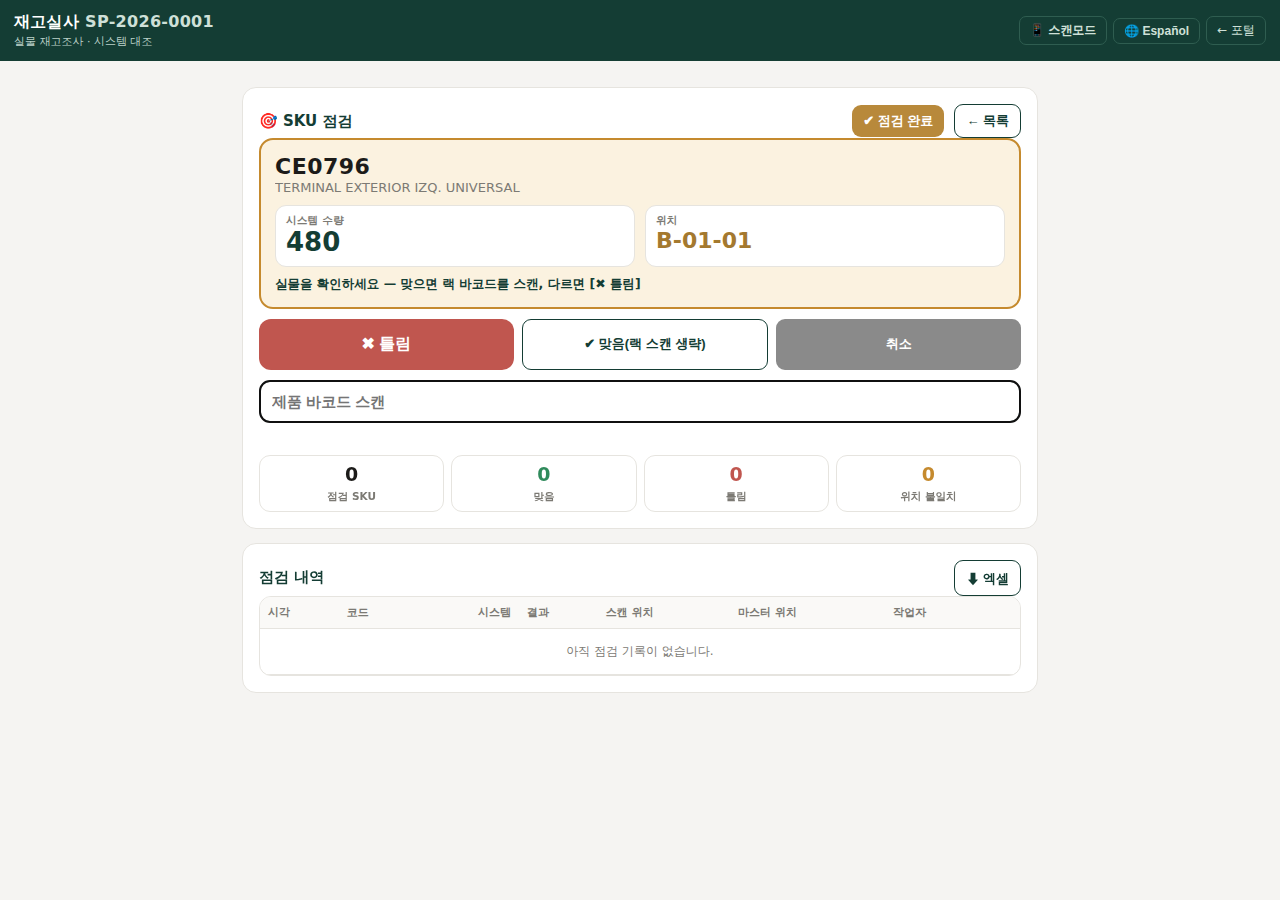
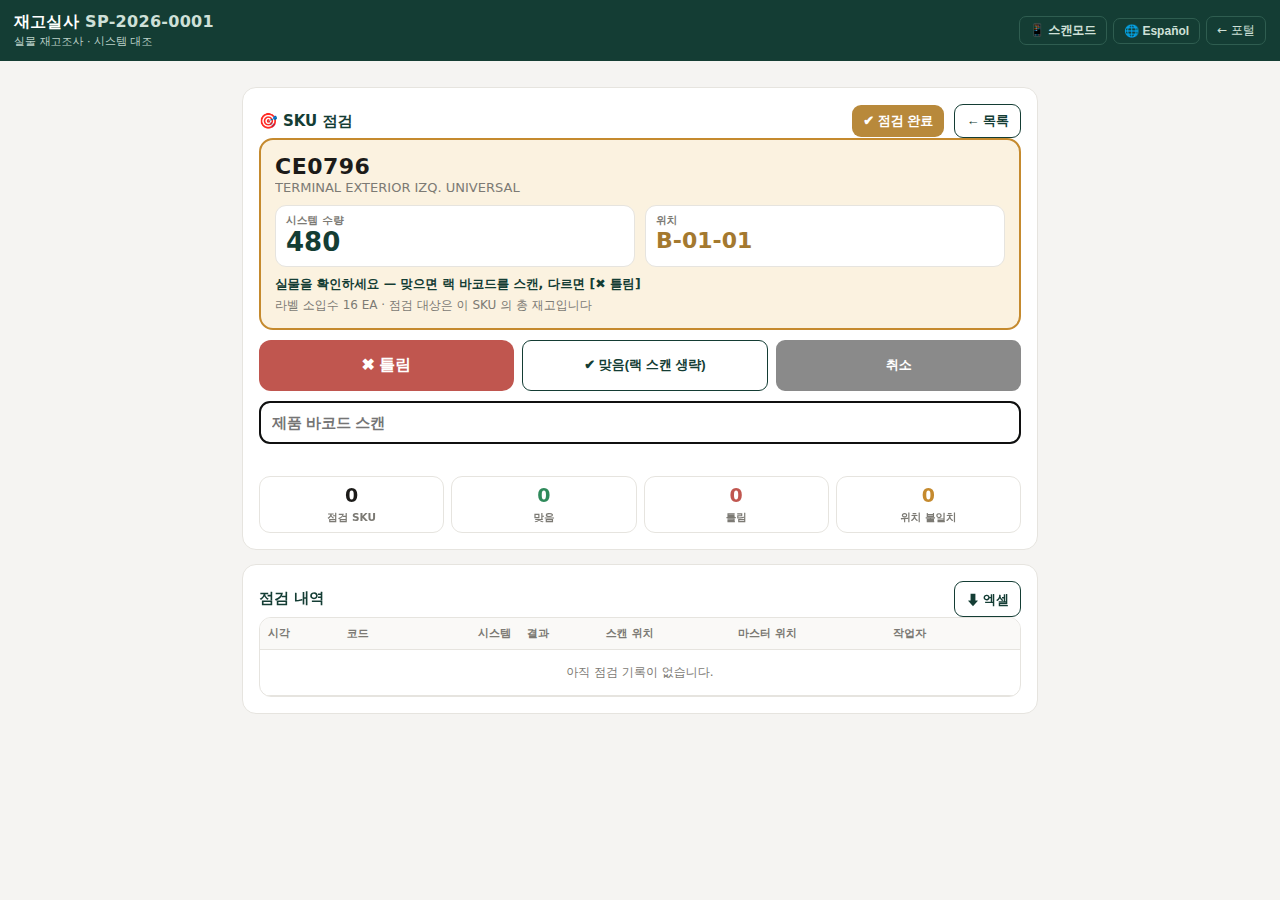
재고 검수

diff --git a/refatrix-api/src/routes/stockCountRoutes.js b/refatrix-api/src/routes/stockCountRoutes.js
@@ -1,4 +1,4 @@
-// stockCountRoutes.js · rev 20260827spot (redeploy marker — 기동 성공 시 아래 로그가 찍힘)
+// stockCountRoutes.js · rev 20260827spot2 (redeploy marker — 기동 성공 시 아래 로그가 찍힘)
 import { query, withTx } from '../db.js';
 import { authGuard, requirePage, requirePageEdit } from '../middleware/authGuard.js';
 import { fieldVisible, round2 } from '../permissions.js';
@@ -25,13 +25,103 @@ import { splitRacks } from './zoneRoutes.js';
 // =====================================================================
 
 export default async function stockCountRoutes(app) {
-  try { console.log("[stockCountRoutes] loaded rev 20260827spot"); } catch (e) {}
+  try { console.log("[stockCountRoutes] loaded rev 20260827spot2"); } catch (e) {}
   const isDirector = (req) => req.ctx.perm.role === 'director';
   const canSeeValue = (req) => isDirector(req) || fieldVisible(req.ctx.perm, 'unit_cost');
   const num = (v) => (v == null ? 0 : Number(v));
 
+  // ---- Code-128 카톤 라벨 파서 ----------------------------------------
+  //   창고 라벨은 `CTR-<제품번호>-<소입수량>` 이다 (CTR-CE0796-16 → CE0796 · 16 EA).
+  //   스캐너는 이 한 줄을 통째로 흘려보내므로, **가운데 제품번호만** 뽑아야 매칭이 된다.
+  //
+  //   방식은 수입입고 화면(refatrix-inbound.html parseLabel)에서 검증된 것을 그대로 쓴다:
+  //   후보를 순서대로 만들고 DB 에 하나씩 물어보고 **첫 히트**를 쓴다. 라벨 변종
+  //   (접두어 없음 / 수량 없음 / 제품번호 자체에 하이픈)에 견딘다.
+  //
+  //   ⚠ 핵심 안전장치: **접두어(CTR|SYD)가 없으면 뒤쪽 -숫자를 수량으로 단정하지 않는다.**
+  //      랙 라벨 `A-01-03` 이나 사내 코드 `ABC-12` 를 제멋대로 잘라 엉뚱한 제품에
+  //      붙이는 사고를 막는다(수입입고와 같은 규칙).
+  const LABEL_PREFIX = /^(CTR|SYD)-?(.+)$/;
+  const LABEL_QTY = /^(.*[A-Z0-9])-(\d{1,6})$/;
+  // 스캐너 자판 보정('→-) · 공백 제거 · 대문자. 프런트도 같은 일을 하지만 서버가 최종 방어선이다.
+  const normScanCode = (v) => String(v == null ? '' : v)
+    .replace(/[\u0000-\u001f\u007f]/g, '')
+    .replace(/['´`‘’′ʼ]/g, '-')
+    .replace(/\s+/g, '')
+    .toUpperCase();
+  const bareOf = (v) => normScanCode(v).replace(/[^A-Z0-9]/g, '');
+
+  // 스캔 원문 → 시도할 코드 후보 목록(순서 = 우선순위). 첫 항목은 항상 원문이라
+  // 기존 동작(정확매칭)이 먼저 걸린다 — 이 파서는 **덧붙이는 폴백**이다.
+  function labelCandidates(raw) {
+    const norm = normScanCode(raw);
+    const out = [{ code: norm, qty: 0, prefix: '', from_label: false }];
+    if (!norm) return out;
+    const mp = norm.match(LABEL_PREFIX);
+    const pre = mp ? mp[1] : '';
+    const body = mp ? mp[2] : norm;
+    if (pre) {
+      const mq = body.match(LABEL_QTY);
+      if (mq) out.push({ code: mq[1], qty: Number(mq[2]), prefix: pre, from_label: true }); // ① 접두어 제거 + 수량 분리
+      out.push({ code: body, qty: 0, prefix: pre, from_label: true });                      // ② 접두어만 제거
+      const mq2 = norm.match(LABEL_QTY);
+      if (mq2) out.push({ code: mq2[1], qty: Number(mq2[2]), prefix: '', from_label: true });// ③ 접두어를 코드로 취급
+    }
+    // 중복 제거(같은 후보를 두 번 조회하지 않게)
+    const seen = new Set();
+    return out.filter((c) => c.code && !seen.has(c.code) && seen.add(c.code));
+  }
+
   // ---- 코드 해석: CTR → EAN → SYD → 프로모(코드/바코드) → 미등록 --------
+  //   codeRaw 가 카톤 라벨이면 위 후보를 순서대로 시도한다. 반환에 라벨 정보를 덧붙인다:
+  //   from_label(라벨에서 뽑은 코드로 붙었는지) · label_qty(라벨의 소입수량) · scanned(정규화된 원문)
   async function resolveCode(codeRaw, exec = query) {
+    const cands = labelCandidates(codeRaw);
+    if (!cands.length || !cands[0].code) return { item_kind: 'unknown', source: 'none' };
+    for (const cand of cands) {
+      const r = await resolveExact(cand.code, exec);
+      if (r.item_kind !== 'unknown') {
+        return { ...r, from_label: !!cand.from_label, label_qty: cand.qty || 0, scanned: cands[0].code };
+      }
+    }
+    // 마지막 폴백 — **구분자가 사라진 라벨** (스캐너 자판 미설정 / ALT 모드 → `CTRCE079616`).
+    //   접두어(CTR|SYD)가 있을 때만, 몸통 뒤 1~6자리를 소입수량으로 떼어 본다.
+    //   어디까지가 제품번호인지 원리적으로 알 수 없으므로(CE0796+16 / CE07961+6 …)
+    //   **후보 중 정확히 한 제품에만 걸릴 때** 채택한다. 둘 이상이면 추측하지 않는다.
+    const mp = cands[0].code.match(LABEL_PREFIX);
+    if (mp) {
+      const body = bareOf(mp[2]);
+      const tries = new Map();                          // 벗긴 코드 → 떼어낸 수량
+      if (body.length >= 4) tries.set(body, 0);
+      for (let n = 1; n <= 6; n += 1) {
+        const m2 = body.match(new RegExp(`^(.*[A-Z0-9])(\\d{${n}})$`));
+        if (m2 && m2[1].length >= 4) tries.set(m2[1], Number(m2[2]));
+      }
+      if (tries.size) {
+        const rows = (await exec(
+          `SELECT id, code, name, app,
+                  REGEXP_REPLACE(UPPER(code), '[^A-Z0-9]', '', 'g') AS barecode
+             FROM products
+            WHERE deleted_at IS NULL
+              AND REGEXP_REPLACE(UPPER(code), '[^A-Z0-9]', '', 'g') = ANY($1::text[])
+            ORDER BY code`, [[...tries.keys()]])).rows;
+        const uniq = [...new Map(rows.map((x) => [String(x.id), x])).values()];
+        if (uniq.length === 1) {
+          return { item_kind: 'part', source: 'ctr', product: uniq[0],
+            from_label: true, label_qty: tries.get(uniq[0].barecode) || 0, scanned: cands[0].code };
+        }
+        if (uniq.length > 1) {
+          // 여러 제품에 걸린다 — 조용히 하나를 고르지 않고, 왜 못 정했는지 알려 준다.
+          return { item_kind: 'unknown', source: 'none', scanned: cands[0].code,
+            ambiguous: uniq.map((x) => x.code) };
+        }
+      }
+    }
+    return { item_kind: 'unknown', source: 'none', scanned: cands[0].code };
+  }
+
+  // 정확매칭 4단계(기존 로직 그대로 — 순서·의미 불변)
+  async function resolveExact(codeRaw, exec = query) {
     const c = String(codeRaw || '').trim();
     if (!c) return { item_kind: 'unknown', source: 'none' };
 
@@ -198,6 +288,9 @@ export default async function stockCountRoutes(app) {
   // 코드 해석(입력 즉시 미리보기) — 저장은 별도
   app.get('/api/stock-counts/resolve', { preHandler: [authGuard, requirePage('warehouse')] }, async (req) => {
     const r = await resolveCode(req.query.code);
+    // 카톤 라벨로 붙었는지(from_label)와 라벨의 소입수량(label_qty)을 함께 알려 준다 —
+    // 화면이 "라벨 소입수 16 EA"를 안내해, 작업자가 총 재고와 헷갈리지 않게 하려는 것.
+    const lbl = { from_label: !!r.from_label, label_qty: num(r.label_qty), scanned: r.scanned || '' };
     if (r.item_kind === 'part') {
       const avail = await availFor(r.product.id);
       const sys = (await query(`SELECT stock_qty, rack_location FROM products WHERE id=$1`, [r.product.id])).rows[0];
@@ -205,6 +298,7 @@ export default async function stockCountRoutes(app) {
         item_kind: 'part', source: r.source, product_id: Number(r.product.id),
         matched_code: r.product.code, name: r.product.name || '', app: r.product.app || '',
         system_qty: num(sys && sys.stock_qty), avail_qty: avail, rack_location: (sys && sys.rack_location) || '',
+        ...lbl,
       };
     }
     if (r.item_kind === 'promo') {
@@ -213,9 +307,11 @@ export default async function stockCountRoutes(app) {
         item_kind: 'promo', source: 'promo', promo_item_id: Number(r.promo.id),
         matched_code: r.promo.code, name: r.promo.name || '',
         system_qty: num(p && p.stock_qty), avail_qty: null, rack_location: (p && p.rack_location) || '',
+        ...lbl,
       };
     }
-    return { item_kind: 'unknown', source: 'none' };
+    return { item_kind: 'unknown', source: 'none', scanned: r.scanned || '',
+      from_label: false, label_qty: 0, ...(r.ambiguous ? { ambiguous: r.ambiguous } : {}) };
   });
 
   // 라인 기록(건별 자동저장). body: { raw_code, rack_scanned, counted_qty }
@@ -508,7 +604,13 @@ export default async function stockCountRoutes(app) {
     if (sc.status !== 'draft') return reply.code(409).send({ error: 'not_draft', note: '완료된 점검에는 추가할 수 없습니다.' });
 
     const r = await resolveCode(raw);
-    if (r.item_kind === 'unknown') return reply.code(404).send({ error: 'unknown_code', note: '등록되지 않은 코드입니다.' });
+    if (r.item_kind === 'unknown') {
+      if (r.ambiguous) {
+        return reply.code(409).send({ error: 'ambiguous_code', ambiguous: r.ambiguous,
+          note: '라벨을 여러 제품으로 읽을 수 있습니다 (' + r.ambiguous.join(' / ') + ') — 제품번호를 직접 입력하세요.' });
+      }
+      return reply.code(404).send({ error: 'unknown_code', note: '등록되지 않은 코드입니다.' });
+    }
     const snap = await spotSnapshot(r);
     const rackMatch = rack ? rackInMaster(rack, snap.master_rack) : null;
 

diff --git a/test/spot_ui.test.js b/test/spot_ui.test.js
@@ -17,12 +17,17 @@ function lastScript(html) {
   return html.match(/<script>[\s\S]*?<\/script>/g).pop().replace(/^<script>/, '').replace(/<\/script>$/, '');
 }
 
-/* 서버가 아는 코드들 — resolve 응답 */
+/* 서버가 아는 코드들 — resolve 응답.
+   ★ Code-128 카톤 라벨(CTR-CE0796-16)의 해석은 **서버**가 한다. 이 목 데이터도 서버처럼
+     라벨을 풀어 같은 제품을 돌려준다(from_label/label_qty 포함). */
+const P5 = { item_kind: 'part', source: 'ctr', product_id: 5, matched_code: 'CE0796', name: 'TERMINAL EXTERIOR', app: '', system_qty: 480, avail_qty: 470, rack_location: 'B-01-01' };
 const RESOLVE = {
-  CE0796: { item_kind: 'part', source: 'ctr', product_id: 5, matched_code: 'CE0796', name: 'TERMINAL EXTERIOR', app: '', system_qty: 480, avail_qty: 470, rack_location: 'B-01-01' },
-  '7501234500019': { item_kind: 'part', source: 'ean', product_id: 5, matched_code: 'CE0796', name: 'TERMINAL EXTERIOR', app: '', system_qty: 480, avail_qty: 470, rack_location: 'B-01-01' },
-  CQ0445: { item_kind: 'part', source: 'ctr', product_id: 6, matched_code: 'CQ0445', name: 'BOMBA AGUA', app: '', system_qty: 36, avail_qty: 36, rack_location: 'AA3-2, B2-2' },
-  CL0211: { item_kind: 'part', source: 'ctr', product_id: 7, matched_code: 'CL0211', name: 'SENSOR', app: '', system_qty: 12, avail_qty: 12, rack_location: '' },
+  CE0796: { ...P5, from_label: false, label_qty: 0 },
+  'CTR-CE0796-16': { ...P5, from_label: true, label_qty: 16 },
+  'CTR-CE0796': { ...P5, from_label: true, label_qty: 0 },
+  '7501234500019': { item_kind: 'part', source: 'ean', product_id: 5, matched_code: 'CE0796', name: 'TERMINAL EXTERIOR', app: '', system_qty: 480, avail_qty: 470, rack_location: 'B-01-01', from_label: false, label_qty: 0 },
+  CQ0445: { item_kind: 'part', source: 'ctr', product_id: 6, matched_code: 'CQ0445', name: 'BOMBA AGUA', app: '', system_qty: 36, avail_qty: 36, rack_location: 'AA3-2, B2-2', from_label: false, label_qty: 0 },
+  CL0211: { item_kind: 'part', source: 'ctr', product_id: 7, matched_code: 'CL0211', name: 'SENSOR', app: '', system_qty: 12, avail_qty: 12, rack_location: '', from_label: false, label_qty: 0 },
 };
 
 function mkDom({ role = 'warehouse', lang = 'ko', width = 1280, pda = null,
@@ -122,7 +127,7 @@ const viewText = (doc, id) => doc.getElementById(id).textContent.replace(/\s+/g,
   {
     const { w, doc } = mkDom();
     await sleep(30);
-    ok('build 태그 sc0827spot', /build sc0827spot/.test(fs.readFileSync(FILE, 'utf8')));
+    ok('build 태그 sc0827spot2', /build sc0827spot2/.test(fs.readFileSync(FILE, 'utf8')));
     ok('스팟점검 화면이 있다', !!doc.getElementById('spotView'));
     ok('점검 이력 화면이 있다', !!doc.getElementById('spotHistView'));
     ok('새 실사 모달에 방식 선택 2개', !!doc.getElementById('modeFull') && !!doc.getElementById('modeSpot'));
@@ -268,6 +273,57 @@ const viewText = (doc, id) => doc.getElementById(id).textContent.replace(/\s+/g,
     await sleep(260);                          // 140ms 무입력 → 자동 처리 + 서버 왕복
     ok('Enter 없이도 자동 처리(140ms)', /CE0796/.test(boxText(doc)), boxText(doc));
     ok('입력칸은 즉시 비워진다', doc.getElementById('spInput').value === '');
+    w.close();
+  }
+
+  /* ---------- ⑥-2 Code-128 카톤 라벨 ---------- */
+  console.log('\n⑥-2 Code-128 카톤 라벨 (CTR-CE0796-16)');
+  {
+    const { w, doc, sent } = mkDom();
+    await sleep(20); await w.openCount(31); await sleep(40);
+    scan(w, 'CTR-CE0796-16'); await sleep(50);
+    const bt = boxText(doc);
+    ok('★ 라벨을 스캔하면 가운데 제품번호로 붙는다', /CE0796/.test(bt) && !/CTR-CE0796-16/.test(bt), bt);
+    ok('★ 시스템 수량은 SKU 총 재고(480)', /480/.test(bt));
+    ok('위치도 뜬다', /B-01-01/.test(bt));
+    ok('라벨 소입수를 이름 붙여 안내한다(총 재고와 혼동 방지)', /라벨 소입수 16/.test(bt), bt);
+    ok('점검 대상이 SKU 총 재고임을 명시', /총 재고/.test(bt));
+    scan(w, 'B-01-01'); await sleep(60);
+    const post = sent.find((s) => /\/spot-checks$/.test(s.url) && s.method === 'POST');
+    ok('서버로는 스캔 원문을 그대로 보낸다(원장 보존)', post && post.body.raw_code === 'CTR-CE0796-16', post && post.body);
+    ok('맞음으로 저장', post && post.body.result === 'ok' && post.body.rack_scanned === 'B-01-01');
+    w.close();
+  }
+  {   // 수량 없는 변종 — 안내 줄만 안 뜨고 나머지는 동일
+    const { w, doc } = mkDom();
+    await sleep(20); await w.openCount(31); await sleep(40);
+    scan(w, 'CTR-CE0796'); await sleep(50);
+    ok('수량 없는 라벨도 제품으로 붙는다', /CE0796/.test(boxText(doc)));
+    ok('소입수가 없으면 안내 줄을 띄우지 않는다', !/라벨 소입수/.test(boxText(doc)));
+    w.close();
+  }
+  {   // ★ 미등록 SKU 의 라벨이 '랙 스캔'으로 오인되지 않아야 한다
+    const { w, doc, sent } = mkDom();
+    await sleep(20); await w.openCount(31); await sleep(40);
+    scan(w, 'CE0796'); await sleep(40);                 // 품목 대기 상태 만들기
+    scan(w, 'CTR-XX9999-8'); await sleep(50);           // 미등록 SKU 의 카톤 라벨
+    ok('★ 라벨은 랙 바코드로 넘어가지 않는다', !sent.some((s) => /\/spot-checks$/.test(s.url)), sent);
+    ok('등록되지 않은 제품 코드라고 알린다', /등록되지 않은 제품 코드/.test(msgText(doc)), msgText(doc));
+    ok('무엇으로 읽었는지 보여준다(XX9999)', /XX9999/.test(msgText(doc)), msgText(doc));
+    ok('대기 품목은 그대로 유지된다', /CE0796/.test(boxText(doc)));
+    scan(w, 'B-01-01'); await sleep(60);
+    ok('이어서 진짜 랙을 스캔하면 정상 저장', sent.some((s) => /\/spot-checks$/.test(s.url) && s.body.rack_scanned === 'B-01-01'));
+    w.close();
+  }
+  {   // 라벨 판정 헬퍼 자체
+    const { w } = mkDom();
+    await sleep(20);
+    ok('isLabelCode: CTR- 접두어 인식', w.isLabelCode('CTR-CE0796-16') === true);
+    ok('isLabelCode: SYD- 도 인식', w.isLabelCode('SYD-CE0796-16') === true);
+    ok('isLabelCode: 랙 라벨은 라벨이 아니다', w.isLabelCode('B-01-01') === false);
+    ok('labelMid: 가운데만 뽑는다', w.labelMid('CTR-CE0796-16') === 'CE0796');
+    ok('labelMid: 수량 없으면 몸통 그대로', w.labelMid('CTR-CE0796') === 'CE0796');
+    ok('labelMid: 제품번호에 하이픈이 있어도', w.labelMid('CTR-CE-0796-16') === 'CE-0796');
     w.close();
   }
 

diff --git a/refatrix-stockcount.html b/refatrix-stockcount.html
@@ -3,7 +3,7 @@
 <head>
 <meta charset="utf-8">
 <meta name="viewport" content="width=device-width, initial-scale=1, maximum-scale=1, user-scalable=no">
-<title>재고실사 · Refatrix · build sc0827spot</title>
+<title>재고실사 · Refatrix · build sc0827spot2</title>
 <!-- __sessbridge --><script>(function(){try{var k="refatrix_session";if(!sessionStorage.getItem(k)){var v=localStorage.getItem(k);if(v)sessionStorage.setItem(k,v);}var _s=sessionStorage.setItem.bind(sessionStorage);sessionStorage.setItem=function(key,val){_s(key,val);if(key===k){try{localStorage.setItem(k,val);}catch(e){}}};}catch(e){}})();</script>
 <style>
   :root{
@@ -84,7 +84,7 @@
   .rackchip.on{background:var(--green);color:#fff;border-color:var(--green)}
   .rackchip b{font-weight:800}
 
-  /* ===== SKU 스팟점검 (sc0827spot) =====================================
+  /* ===== SKU 스팟점검 (sc0827spot2) =====================================
      현장 흐름: 제품 스캔 → 시스템 수량·위치를 크게 → 랙 스캔(맞음) / [틀림] */
   .modepill{display:inline-block;padding:2px 8px;border-radius:8px;font-size:11px;font-weight:800;margin-left:6px}
   .m-full{background:#eef3f7;color:#3a6ea5} .m-spot{background:#fdf3e3;color:#9A6512}
@@ -991,7 +991,7 @@ async function deletePromo(){
 }
 
 /* =====================================================================
-   SKU 스팟점검 (build sc0827spot)
+   SKU 스팟점검 (build sc0827spot2)
    현장 흐름 — 디렉터 지시 2026-08-27:
      ① 제품 바코드 스캔 → 시스템 수량·위치가 화면에 크게 뜬다
      ② 실물을 세어 맞으면 **랙 바코드를 스캔** → 맞음 확정
@@ -1090,6 +1090,17 @@ async function loadSpotChecks(){
 /* ---- 스캔 배선 — Enter 에 의존하지 않는다(스캐너가 접미사를 안 보내도 동작) ---- */
 var SPQUOTE=/['´`‘’′ʼ]/g;
 function spNorm(v){ return String(v||'').replace(/[\u0000-\u001f\u007f]/g,'').replace(SPQUOTE,'-').replace(/\s+/g,'').toUpperCase(); }
+/* Code-128 카톤 라벨 — `CTR-<제품번호>-<소입수량>` (CTR-CE0796-16 → CE0796 · 16 EA).
+   실제 매칭은 서버가 한다(후보 순서대로 DB 조회). 프런트는 두 가지에만 쓴다:
+     ① 라벨인데 제품을 못 찾았을 때 **랙 바코드로 넘기지 않기**
+     ② 실패 메시지에 "무엇으로 읽었는지" 보여주기 */
+var SPLBL_PRE=/^(CTR|SYD)-?(.+)$/, SPLBL_QTY=/^(.*[A-Z0-9])-(\d{1,6})$/;
+function isLabelCode(c){ return SPLBL_PRE.test(String(c||'')); }
+function labelMid(c){                       // 가운데 제품번호만
+  var m=String(c||'').match(SPLBL_PRE); if(!m) return String(c||'');
+  var body=m[2], q=body.match(SPLBL_QTY);
+  return q?q[1]:body;
+}
 var spDupCode='', spDupAt=0;
 function spDup(n){ var t=Date.now(); if(n&&n===spDupCode&&(t-spDupAt)<450){ spDupAt=t; return true; } spDupCode=n; spDupAt=t; return false; }
 function spotWireInput(){
@@ -1130,10 +1141,18 @@ async function spotScan(raw){
       }
       SP.pending={ raw_code:code, item_kind:r.item_kind, matched_code:r.matched_code||code,
         name:r.name||'', system_qty:r.system_qty, rack_location:r.rack_location||'',
-        source:r.source||'', warn:'' };
+        source:r.source||'', from_label:!!r.from_label, label_qty:Number(r.label_qty||0), warn:'' };
       SP.last=null;
       sndRead(); setMsg('spMsg','','');
       renderSpotBox();
+      return;
+    }
+    // ⚠ 카톤 라벨(CTR-…)인데 제품을 못 찾았으면 **랙으로 넘기지 않는다.**
+    //    안 그러면 미등록 SKU 의 라벨이 조용히 "랙 바코드"로 기록된다.
+    if(isLabelCode(code)){
+      sndErr();
+      setMsg('spMsg','✖ '+L('등록되지 않은 제품 코드입니다','Código de producto no registrado')
+        +' — '+spEsc(labelMid(code))+' ('+L('라벨','etiqueta')+' '+spEsc(code)+')','err');
       return;
     }
     // 제품이 아니다 — 대기 품목이 있으면 랙 바코드로 본다(= 맞음 확정)
@@ -1222,6 +1241,11 @@ function renderSpotBox(){
     +'</div>'
     +'<div class="spask">'+L('실물을 확인하세요 — 맞으면 랙 바코드를 스캔, 다르면 [✖ 틀림]',
                              'Verifique el físico — si coincide escanee la ubicación, si no [✖ NO COINCIDE]')+'</div>'
+    // 라벨의 소입수량은 '카톤 1박스 수량'이다. 시스템 수량(총 재고)과 다른 숫자라 작업자가
+    // 헷갈리기 쉬워, 무엇인지 이름을 붙여 작게 보여준다. 점검 대상은 어디까지나 SKU 총 재고다.
+    +(p.from_label&&p.label_qty?('<div class="mut" style="margin-top:4px">'
+        +L('라벨 소입수','Etiqueta: piezas por caja')+' '+spNum(p.label_qty)+' EA · '
+        +L('점검 대상은 이 SKU 의 총 재고입니다','se verifica el total del SKU')+'</div>'):'')
     +(p.rack_location?'':'<div class="spwarn">⚠ '+L('제품마스터에 위치가 없습니다','Sin ubicación en el maestro')+'</div>');
   acts.innerHTML='<button class="btn red big" onclick="spotMismatch()">✖ '+L('틀림','NO COINCIDE')+'</button>'
     +'<button class="btn ghost sm" onclick="spotOkNoRack()">✔ '+L('맞음(랙 스캔 생략)','OK (sin ubicación)')+'</button>'
@@ -1338,7 +1362,7 @@ function spotHistXlsx(){
 
 // ================= 부트스트랩 =================
 (function(){
-  try{ console.log('[refatrix-stockcount] build sc0827spot'); }catch(e){}
+  try{ console.log('[refatrix-stockcount] build sc0827spot2'); }catch(e){}
   const ps=portalSession();
   if(ps&&ps.token){ session={token:ps.token,user:ps.user||{},api:ps.api||'https://refatrix-production.up.railway.app'}; afterLogin(); }
   else { show('loginView'); }

diff --git a/README_Ù░░ÝÅ¼_ýèñÝîƒýáÉÛ▓Ç.md b/README_Ù░░ÝÅ¼_ýèñÝîƒýáÉÛ▓Ç.md
@@ -1,4 +1,4 @@
-# REFATRIX 배포 — SKU 스팟점검 (build `sc0827spot` / rev `20260827spot`)
+# REFATRIX 배포 — SKU 스팟점검 (build `sc0827spot2` / rev `20260827spot2`)
 
 **⚠ 마이그레이션 `0188` 신규 — `npm run migrate` 필수**
 백엔드 1 + 마이그레이션 1 + 프런트 1 (+ 테스트 3). **nav.js 무변경.**
@@ -34,7 +34,7 @@ npm run migrate
 | `refatrix-stockcount.html` | 저장소 **최상위** |
 
 → Push → Pages 1~2분 → 재고실사 화면에서 **Ctrl+Shift+R**
-→ 콘솔에 `[refatrix-stockcount] build sc0827spot` 확인
+→ 콘솔에 `[refatrix-stockcount] build sc0827spot2` 확인
 
 ---
 
@@ -55,10 +55,10 @@ npm run migrate
 ## 배포 확인 (raw)
 
 ```
-curl -s ".../main/refatrix-api/migrations/0188_stock_count_spot.sql?nc=$(date +%s)" | grep -c stock_count_spot_checks   # 5+
-curl -s ".../main/refatrix-api/src/routes/stockCountRoutes.js?nc=$(date +%s)" | grep -c "20260827spot"                 # 2
-curl -s ".../main/refatrix-stockcount.html?nc=$(date +%s)" | grep -c "sc0827spot"                                       # 3
-curl -s ".../main/refatrix-stockcount.html?nc=$(date +%s)" | grep -c "spot-checks"                                      # 4+
+curl -s ".../main/refatrix-api/migrations/0188_stock_count_spot.sql?nc=$(date +%s)" | grep -c stock_count_spot_checks   # 10
+curl -s ".../main/refatrix-api/src/routes/stockCountRoutes.js?nc=$(date +%s)" | grep -c "20260827spot2"                 # 2
+curl -s ".../main/refatrix-stockcount.html?nc=$(date +%s)" | grep -c "sc0827spot2"                                      # 4
+curl -s ".../main/refatrix-stockcount.html?nc=$(date +%s)" | grep -c "spot-checks"                                      # 3
 ```
 
 ---
